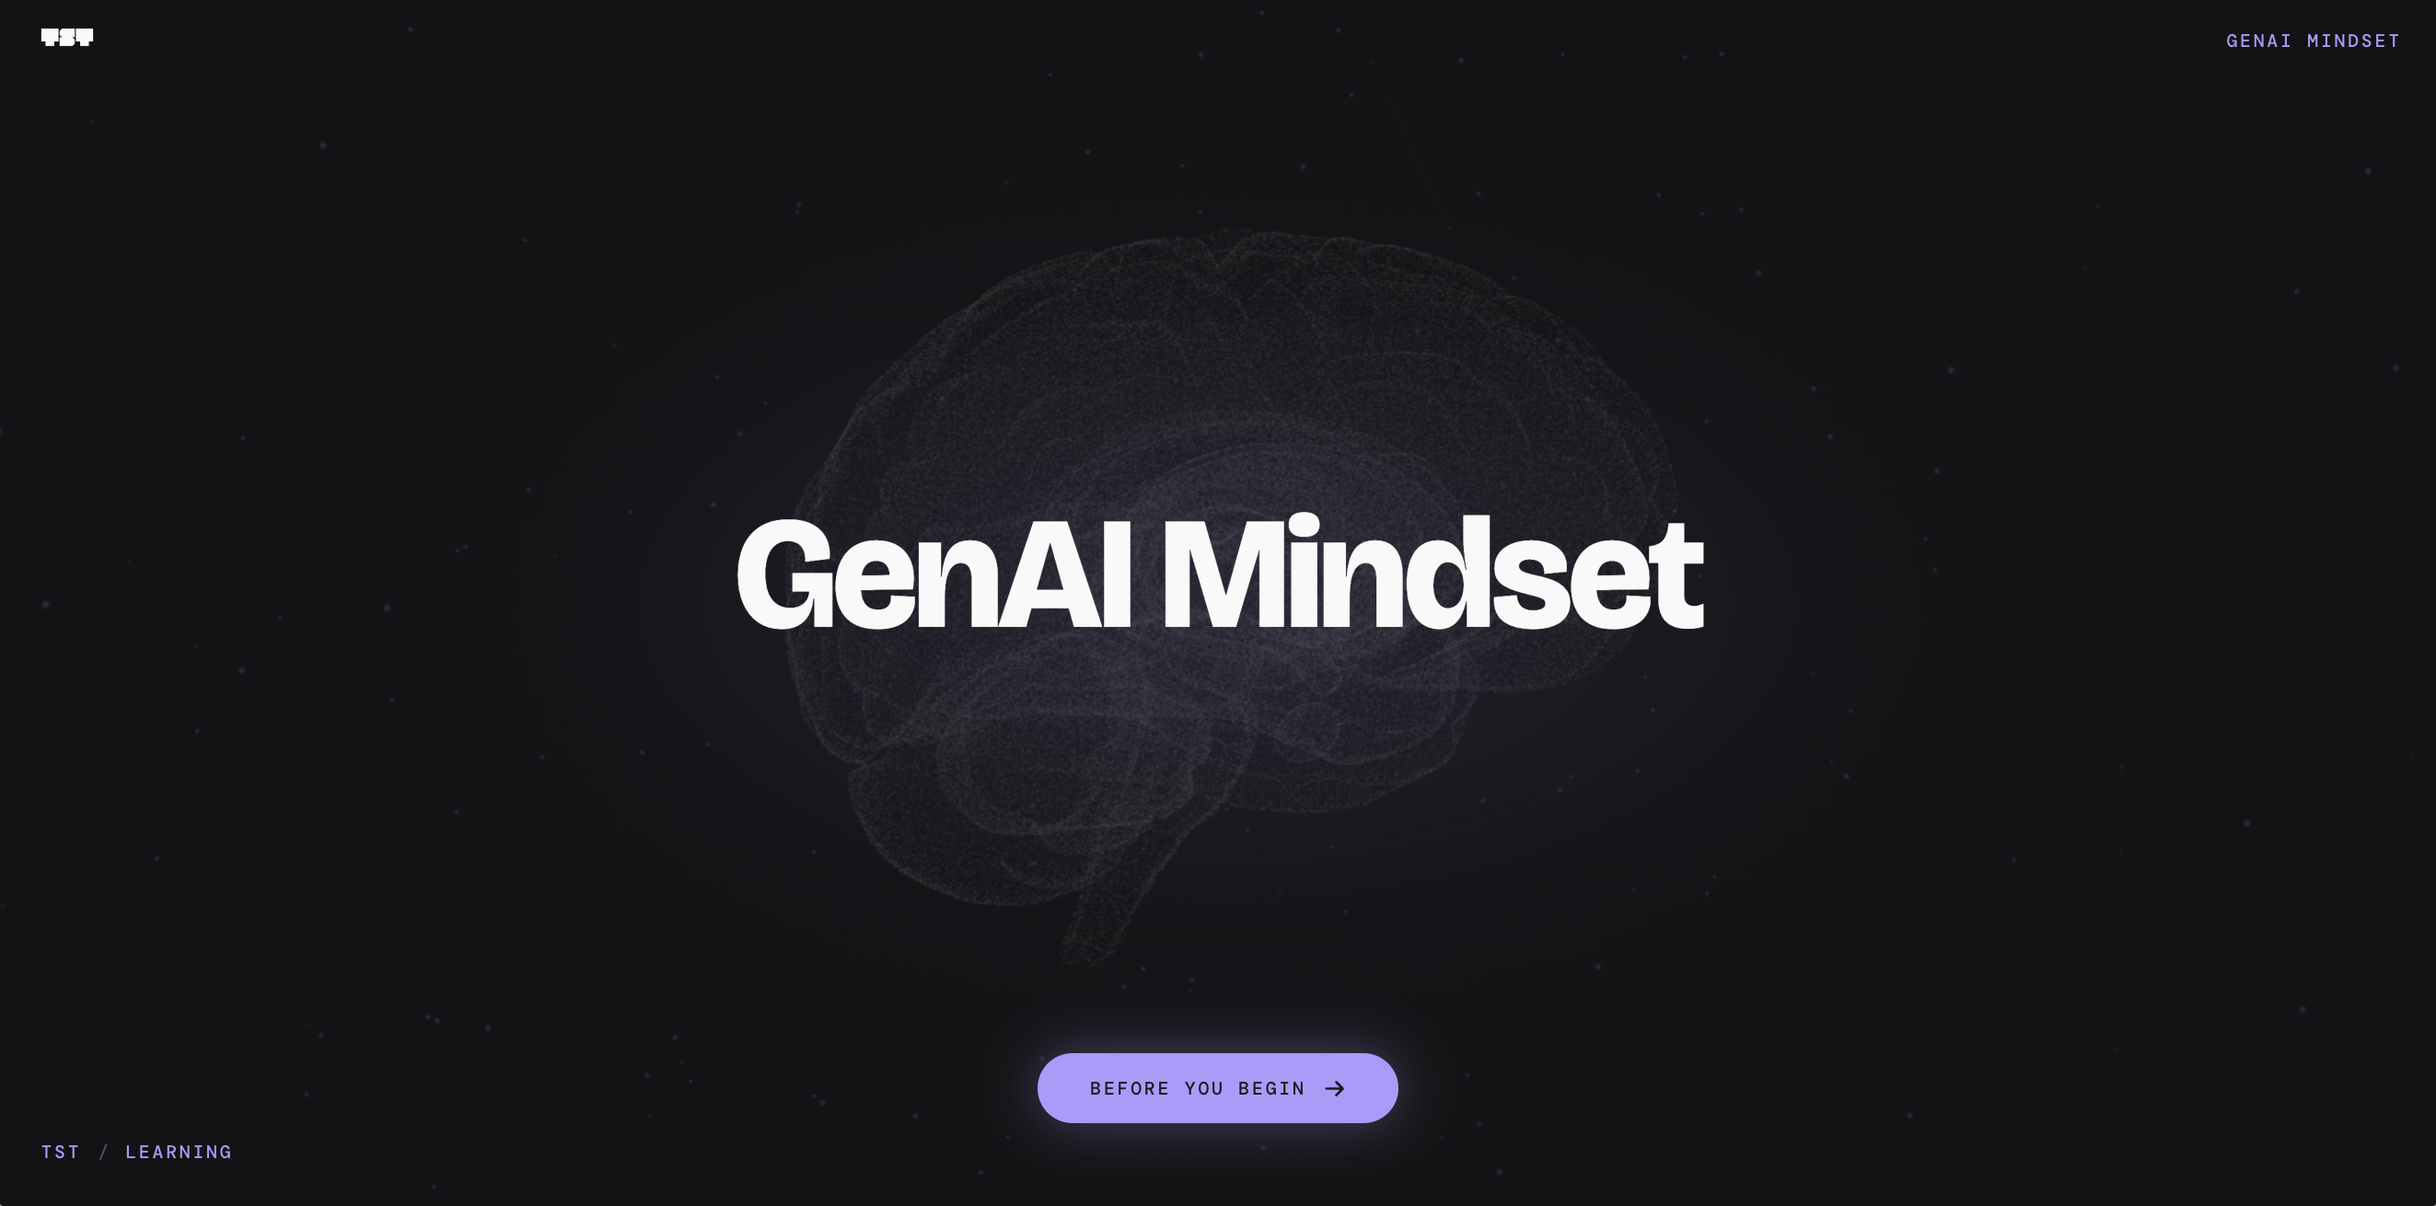
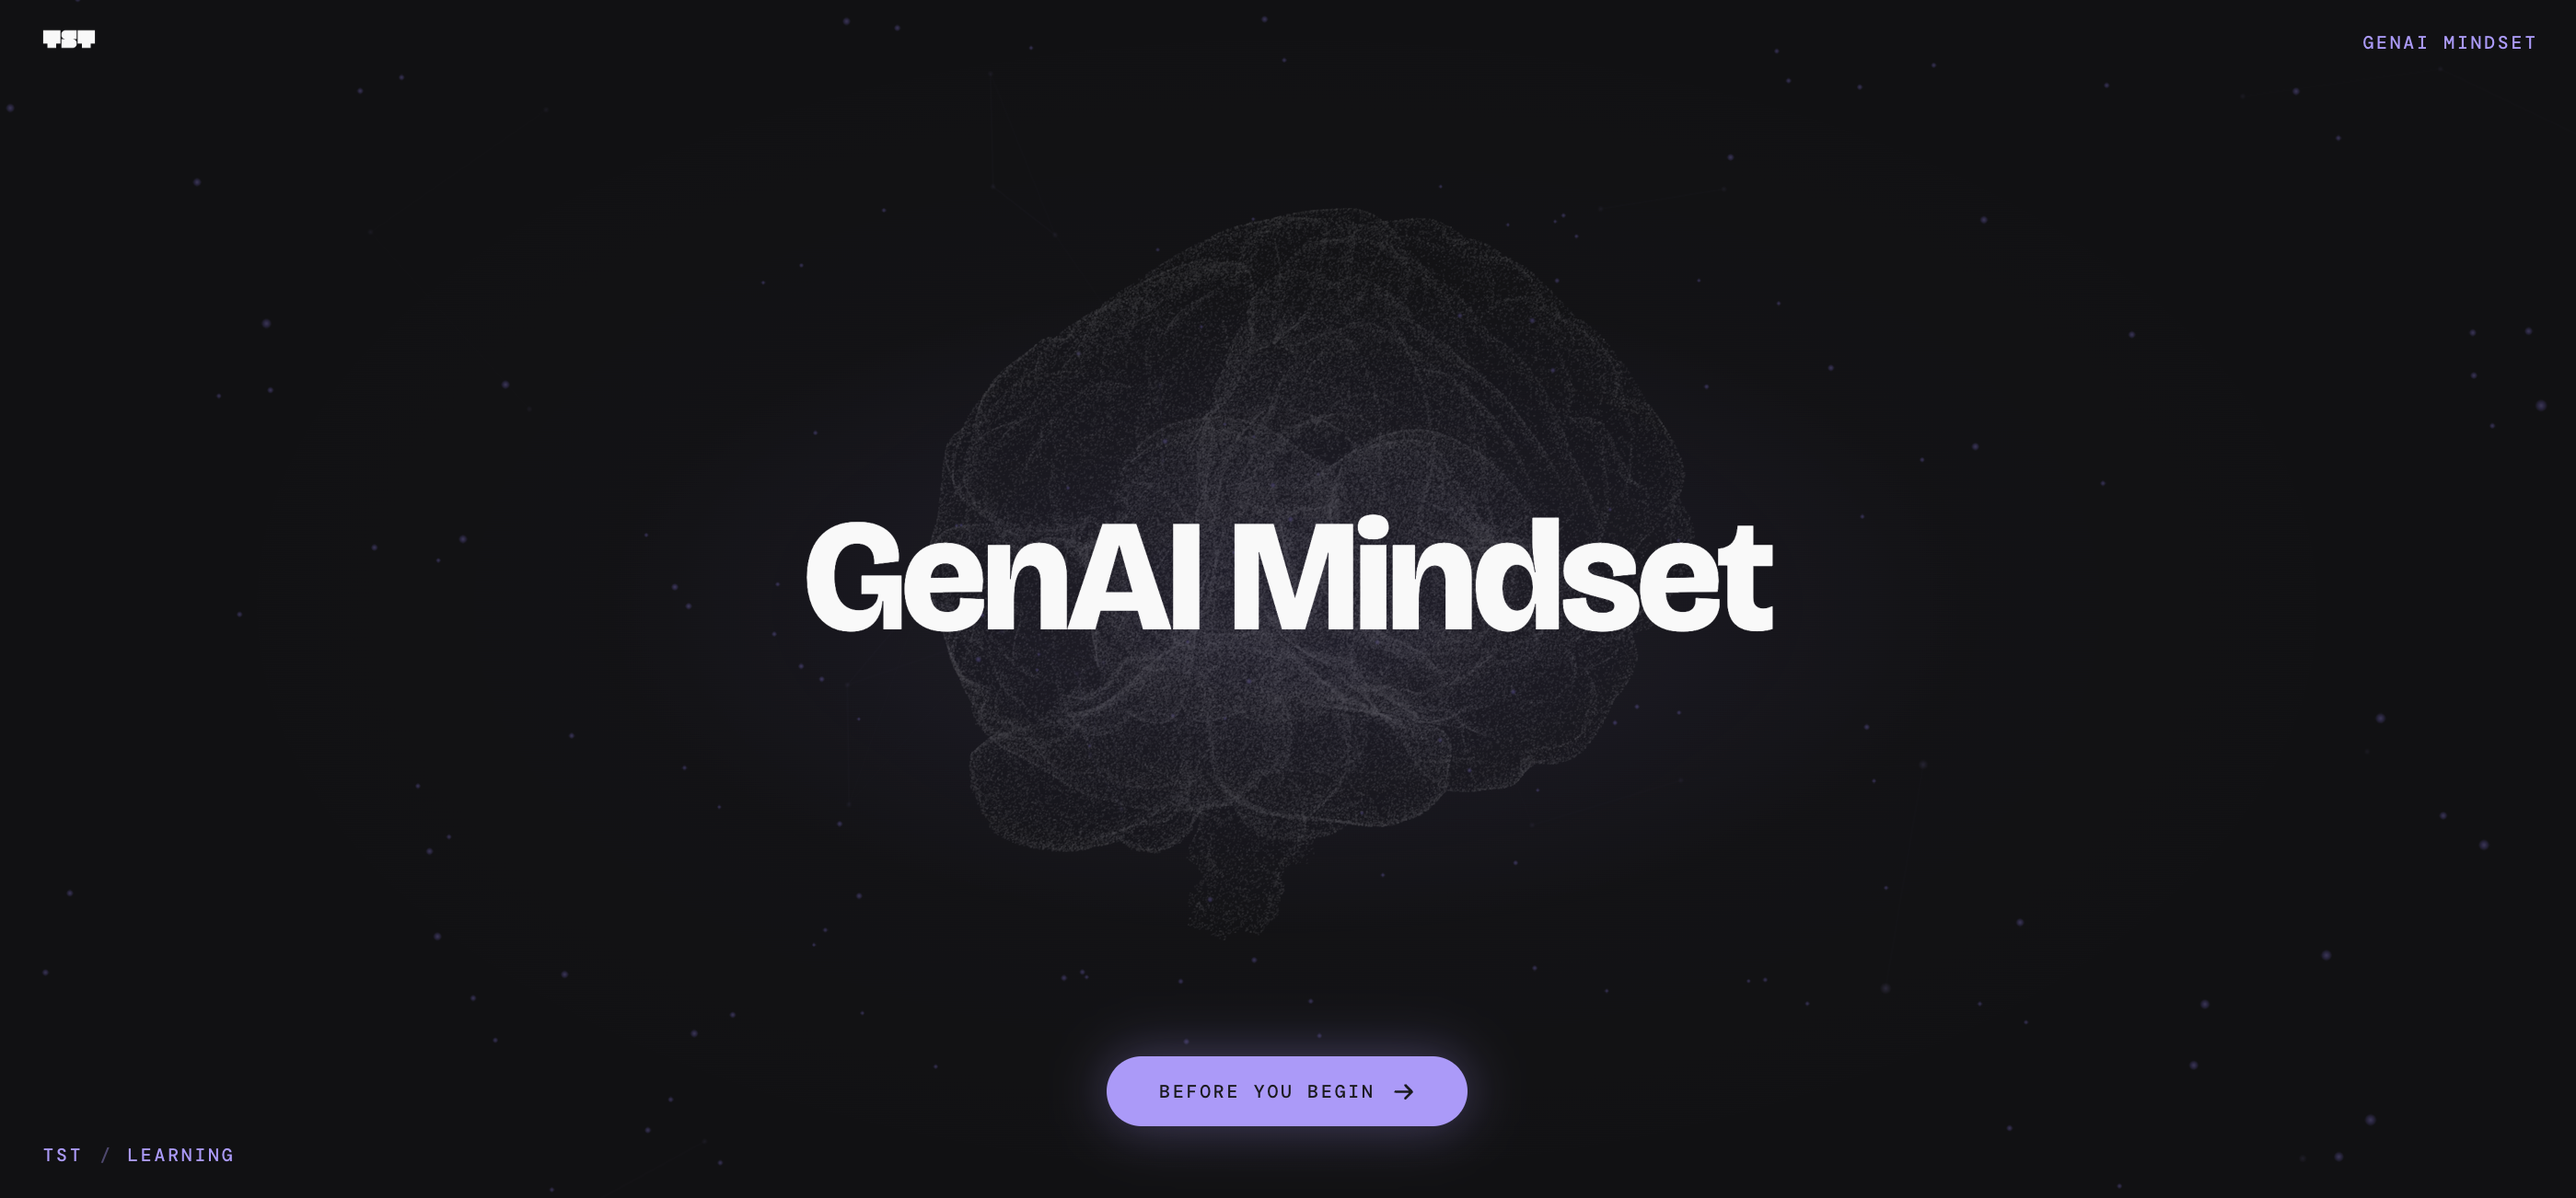
update GenAI Mindset screenshot

diff --git a/index.html b/index.html
@@ -631,7 +631,7 @@
             <a href="https://www.wearetst.com/" class="project-link" target="_blank" rel="noopener noreferrer">About TST &#8599;</a>
           </div>
           <div class="project-image">
-            <img src="assets/genai-mindset.png" alt="GenAI Mindset learning platform landing page showing a wireframe brain model and the title GenAI Mindset." width="1440" height="900" loading="lazy" style="width:100%;height:auto;display:block;">
+            <img src="assets/genai-mindset.png" alt="GenAI Mindset learning platform landing page showing a wireframe brain model and the title GenAI Mindset." width="2798" height="1302" loading="lazy" style="width:100%;height:auto;display:block;">
           </div>
         </div>
 
